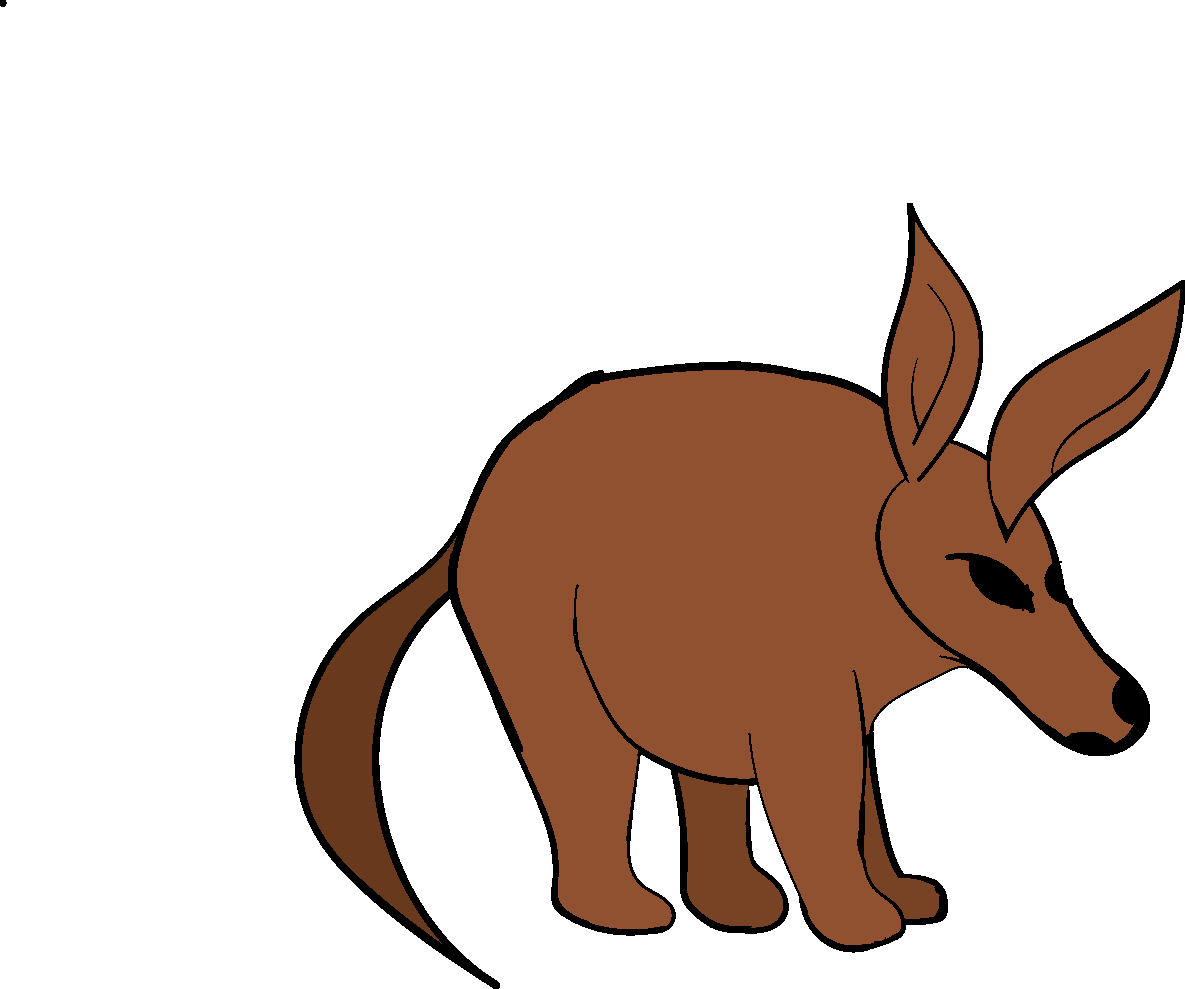
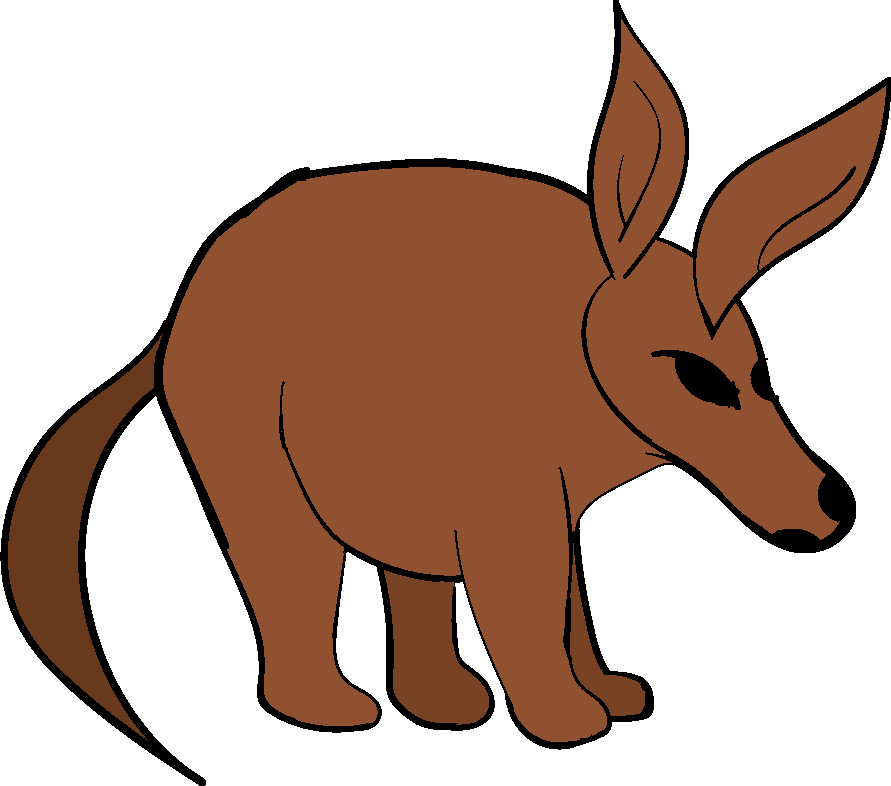
Added description and some comments.

diff --git a/Australian Wildlife/javascript/script.js b/Australian Wildlife/javascript/script.js
@@ -17,6 +17,7 @@ animaldictionary["wallaby"] = "The Agile Wallaby is a medium sized wallaby. Ligh
 animaldictionary["shark"] = "Blue sharks are found in very deep waters. They prefer cooler water though so they are often found in sub tropical areas where it doesn’t get too warm.  It isn’t very often you will see one unless you are diving in the depths of the ocean. Most divers are well aware of what a blue shark looks like and strive to stay as far away from them as possible.";
 animaldictionary["turtle"] = "The Green Turtle has a small head and strong front flippers. It gets its name from the colour of its fat rather than the colour of its shell.";
 animaldictionary["fairypenguin"] = "The Fairy Penguin is the smallest species of penguin and the only one to breed in Australia. To keep them warm and dry, their feathers are oily due to oil glands in the penguins tail. Fairy penguins come ashore in groups to their burrows after dark when most predators are not around, returning to the sea before sunrise.";
+animaldictionary["wombat"] = "Wombats are stout marsupials and can weigh up to 36 kg. They have a large, blunt head and a short, neck. Their sharp claws and stubby, powerful legs make them great diggers. Wombats can live for up to 27 years in captivity. It digs burrows and tunnels in the ground for shelter and to escape from danger. Despite their slow appearance they can run quite fast.";
 
 $(document).ready(function(){	
 // Functions that be ran every time the browser was opened

diff --git a/Australian Wildlife/index.html b/Australian Wildlife/index.html
@@ -109,12 +109,12 @@
 		<img src="images/rock1.png" id="rock1" alt="rock1" height="150px" width="250px">
 		
 		<div id="wombat" class="more_info">
-			<img src="images/wombat.png" alt="koala" height="75px" width="100">
+			<img src="images/wombat.png" alt="koala" height="100px" width="auto">
 			<a href="#" >more info</a>
 		</div>  
 		
 		<div id="aardvark" class="more_info">
-			<img src="images/aardvark.png" alt="aardvark" height="300px" width="400">
+			<img src="images/aardvark.png" alt="aardvark" height="150px" width="ato">
 			<a href="#" >more info</a>
 		</div>  
 		

diff --git a/Australian Wildlife/css/style.css b/Australian Wildlife/css/style.css
@@ -123,14 +123,14 @@ h3 {
 
 #wombat{
 	position: absolute;
-	left: 80%;
-	top: 60%;
+	right:20%;
+	top: 30%;
 }
 
 #aardvark{
 	position: absolute;
-	left: 20%;
-	top: 30%;
+	left: 30%;
+	top: 40%;
 }
 
 /*habitat images*/
